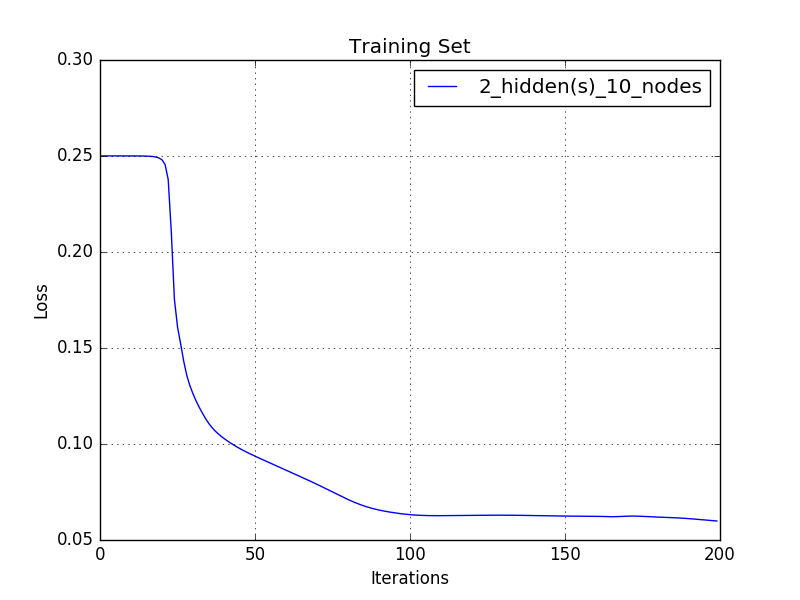
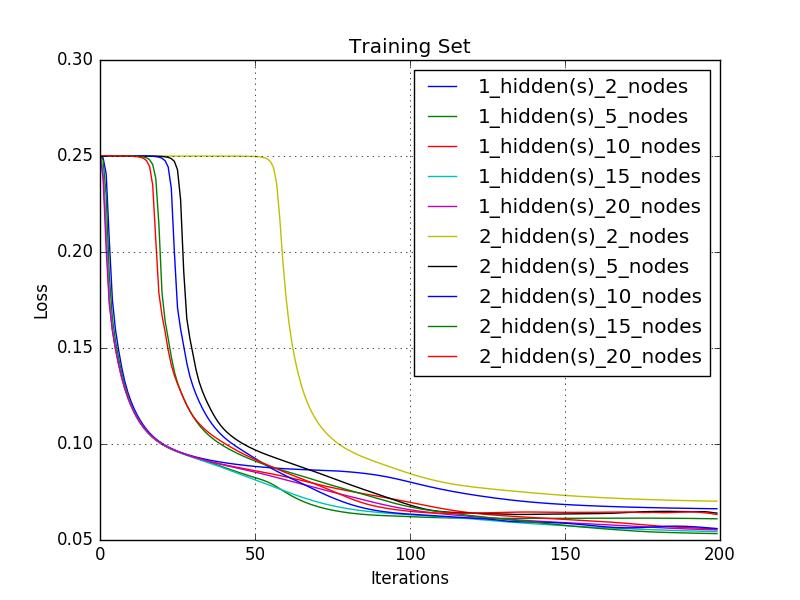
RE-Generated loss function for all cases. But it needs to improve.

diff --git a/Assignment6/Code/model/NeuralNetworkModel.py b/Assignment6/Code/model/NeuralNetworkModel.py
@@ -190,21 +190,24 @@ class NeuralNetwork2:
         # self.weights[1] += delta_w2
 
         # with iteration
-        previous_delta = None
-        for i in reversed(range(len(self.outputs))):
+        output_errors = None
+        for i in reversed(range(len(self.outputs) - 1)):
             if i == 0:
-                break
-            if previous_delta is None:
-                previous_delta = sigmoid_derivative(self.output) * (self.y - self.output)
-                delta_w = self.step_size * np.dot(self.outputs[i - 1].T, previous_delta)
-                self.weights[i - 1] += delta_w
+                input = self.input
             else:
-                error = np.dot(previous_delta, self.weights[i].T)
-                delta = sigmoid_derivative(self.outputs[i]) * error  # (T4.4)
-                delta_w = self.step_size * np.dot(self.outputs[i - 1].T, delta)
-                self.weights[i - 1] += delta_w
-                previous_delta = delta
+                input = self.outputs[i]
 
+            if output_errors is None:
+                output = self.outputs[-1]
+                output_errors = sigmoid_derivative(output) * (self.y - output)
+                delta_w = self.step_size * np.dot(input.T, output_errors)
+                self.weights[i] += delta_w
+            else:
+                error = np.dot(output_errors, self.weights[i + 1].T)
+                delta = sigmoid_derivative(self.outputs[i + 1]) * error  # (T4.4)
+                delta_w = self.step_size * np.dot(input.T, delta)
+                self.weights[i] += delta_w
+                output_errors = delta
 
     def backprop(self):
 
@@ -268,29 +271,30 @@ if __name__ == "__main__":
 
     LOCAL = True
     NN = NeuralNetwork(X, y, num_hidden_layer=1, num_nodes=4, step_size=1)
-    for i in range(3000):  # trains the NN 1,000 times
-        if i % 100 == 0:
-        #     print("for iteration # " + str(i) + "\n")
-        #     print("Input : \n" + str(X))
-            predictions = NN.predict()
-            print("Actual Output: \n" + str(y))
-            print("Predicted Output: \n" + str(predictions))
-
-            print("Loss: \n" + str(np.mean(np.square(y - predictions))))  # mean sum squared loss
-            print("My Loss: \n" + str(NN.loss()))
-        #     print("\n")
-
-        NN.train()
-    # NN = NeuralNetwork(X, y, num_hidden_layer=1, num_nodes=2, step_size=1)
     # for i in range(3000):  # trains the NN 1,000 times
     #     if i % 100 == 0:
-    #         print("for iteration # " + str(i) + "\n")
-    #         print("Input : \n" + str(X))
+    #     #     print("for iteration # " + str(i) + "\n")
+    #     #     print("Input : \n" + str(X))
+    #         predictions = NN.predict()
     #         print("Actual Output: \n" + str(y))
-    #         print("Predicted Output: \n" + str(NN.feedforward()))
-    #         print("Loss: \n" + str(np.mean(np.square(y - NN.feedforward()))))  # mean sum squared loss
-    #         print("My Loss: \n" + str(NN.loss()))
-    #         print("\n")
+    #         print("Predicted Output: \n" + str(predictions))
     #
-    #     NN.train(X, y)
+    #         print("Loss: \n" + str(np.mean(np.square(y - predictions))))  # mean sum squared loss
+    #         print("My Loss: \n" + str(NN.loss()))
+    #     #     print("\n")
+    #
+    #     NN.train()
+
+    NN = NeuralNetwork(X, y, num_hidden_layer=1, num_nodes=4, step_size=1)
+    for i in range(3000):  # trains the NN 1,000 times
+        if i % 100 == 0:
+            print("for iteration # " + str(i) + "\n")
+            print("Input : \n" + str(X))
+            print("Actual Output: \n" + str(y))
+            print("Predicted Output: \n" + str(NN.feedforward()))
+            print("Loss: \n" + str(np.mean(np.square(y - NN.feedforward()))))  # mean sum squared loss
+            print("My Loss: \n" + str(NN.loss()))
+            print("\n")
+
+        NN.train(X, y)
     LOCAL = False

diff --git a/Assignment6/Code/assignments/prob1_neural_networks.py b/Assignment6/Code/assignments/prob1_neural_networks.py
@@ -9,8 +9,8 @@ from utils.Assignment5Support import LoadRawData, TrainTestSplit, Featurize
 
 
 def run(xTrainRaw, yTrainRaw, xTestRaw, yTestRaw,
-        num_hidden_layers=[1],
-        num_nodes_per_hideen_layer=[10],  #[2, 5, 10, 15, 20],
+        num_hidden_layers=[1, 2],
+        num_nodes_per_hideen_layer=[2, 5, 10, 15, 20],  #[2, 5, 10, 15, 20],
         iterations=200,
         step_size=0.05):
     (xTrains, xTests) = Featurize(xTrainRaw, xTestRaw,
@@ -52,13 +52,14 @@ def run(xTrainRaw, yTrainRaw, xTestRaw, yTestRaw,
 
             for i in range(iterations):
 
-                # NN.feedforward()
-                # loss_data[case].append((i, NN.loss(yTrains)))
+                # outputs = NN.feedforward()
+                # loss = np.mean(np.square(yTrains - outputs))
+                # loss_data[case].append((i, loss))
                 # if i % 50 == 0:  # mean sum squared loss
-                #     print("Predicted Output: \n" + str(NN.feedforward()))
-                #     print("Case: " + str(case) + " Loss: \n" + str(NN.loss()))
+                #     print("Case: " + str(case) + " Loss: \n" + str(loss))
                 #     print("\n")
                 # NN.train(xTrains, yTrains)
+
                 predictions = NN.predict()
                 loss = np.mean(np.square(yTrains - predictions))
                 loss_data[case].append((i, loss))
@@ -77,5 +78,7 @@ def run(xTrainRaw, yTrainRaw, xTestRaw, yTestRaw,
 if __name__ == "__main__":
     (xRaw, yRaw) = LoadRawData(kDataPath, includeLeftEye=True, includeRightEye=True)
     (xTrainRaw, yTrainRaw, xTestRaw, yTestRaw) = TrainTestSplit(xRaw, yRaw, percentTest=.25)
-    run(xTrainRaw, yTrainRaw, xTestRaw, yTestRaw, num_hidden_layers=[2], iterations=200)
+    run(xTrainRaw, yTrainRaw, xTestRaw, yTestRaw,
+        num_hidden_layers=[1, 2],
+        iterations=200)
 
